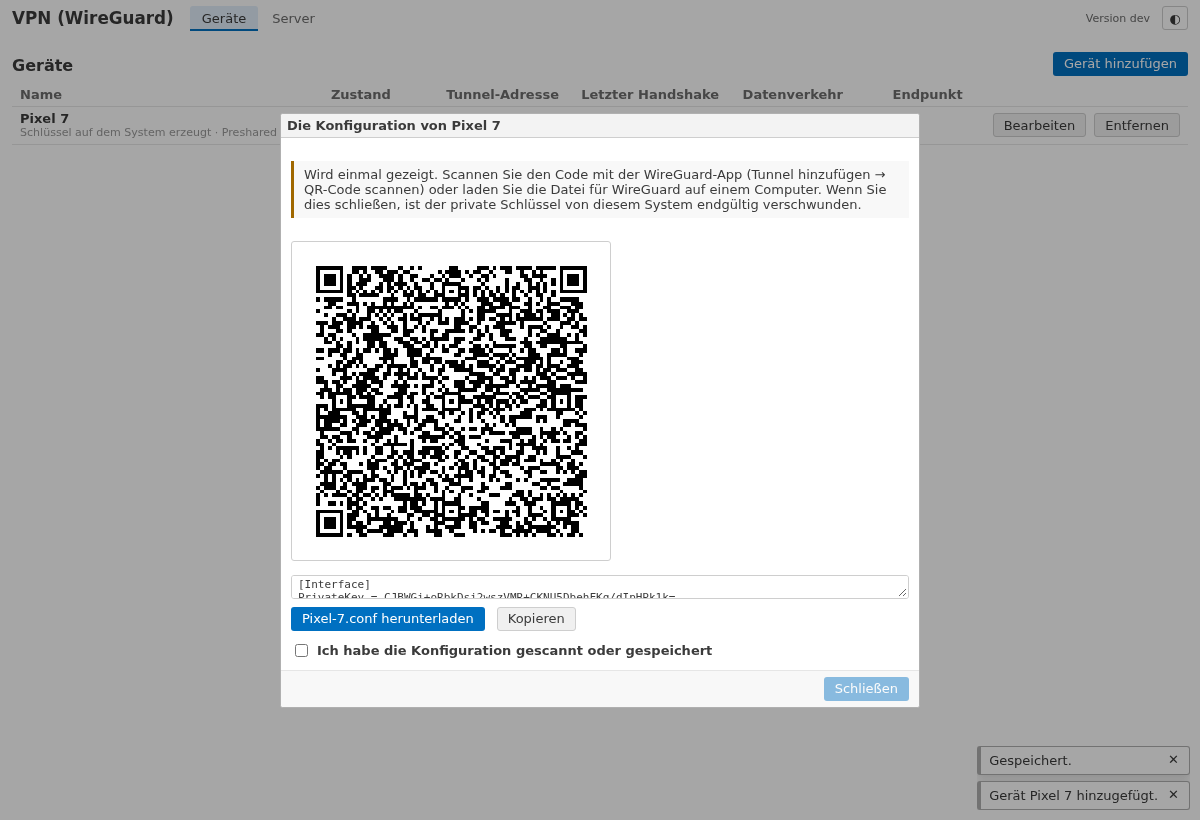
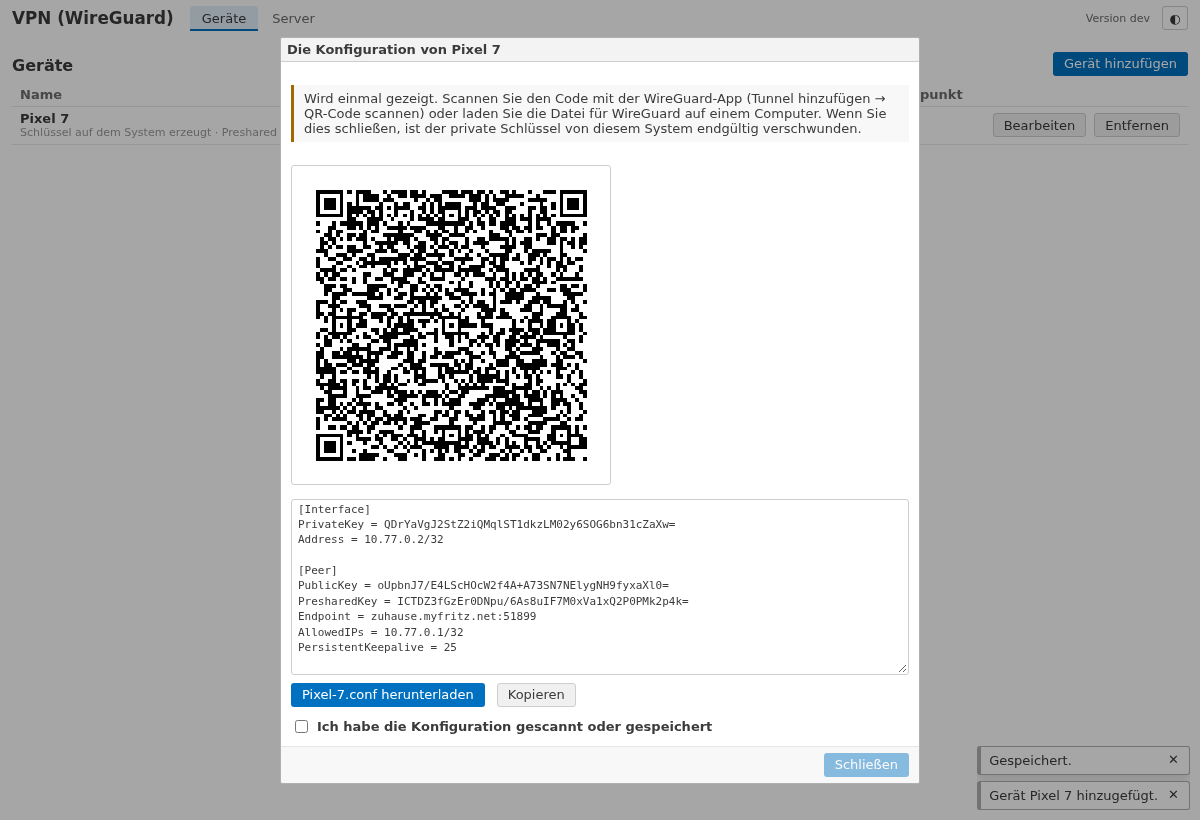
The one-time configuration's text box gets its height; screenshots retaken

Changed region(s): [[0.2158, 0.0305, 0.7708, 0.9756]]

diff --git a/ui/src/app.css b/ui/src/app.css
@@ -764,8 +764,11 @@ button.wg-fixed {
 .wg-conf {
     width: 100%;
     box-sizing: border-box;
+    min-height: 16em;
+    height: auto;
     font-family: var(--hmm-font-mono, monospace);
     font-size: var(--hmm-font-size-small, 0.9em);
+    line-height: 1.4;
     white-space: pre;
     resize: vertical;
 }
